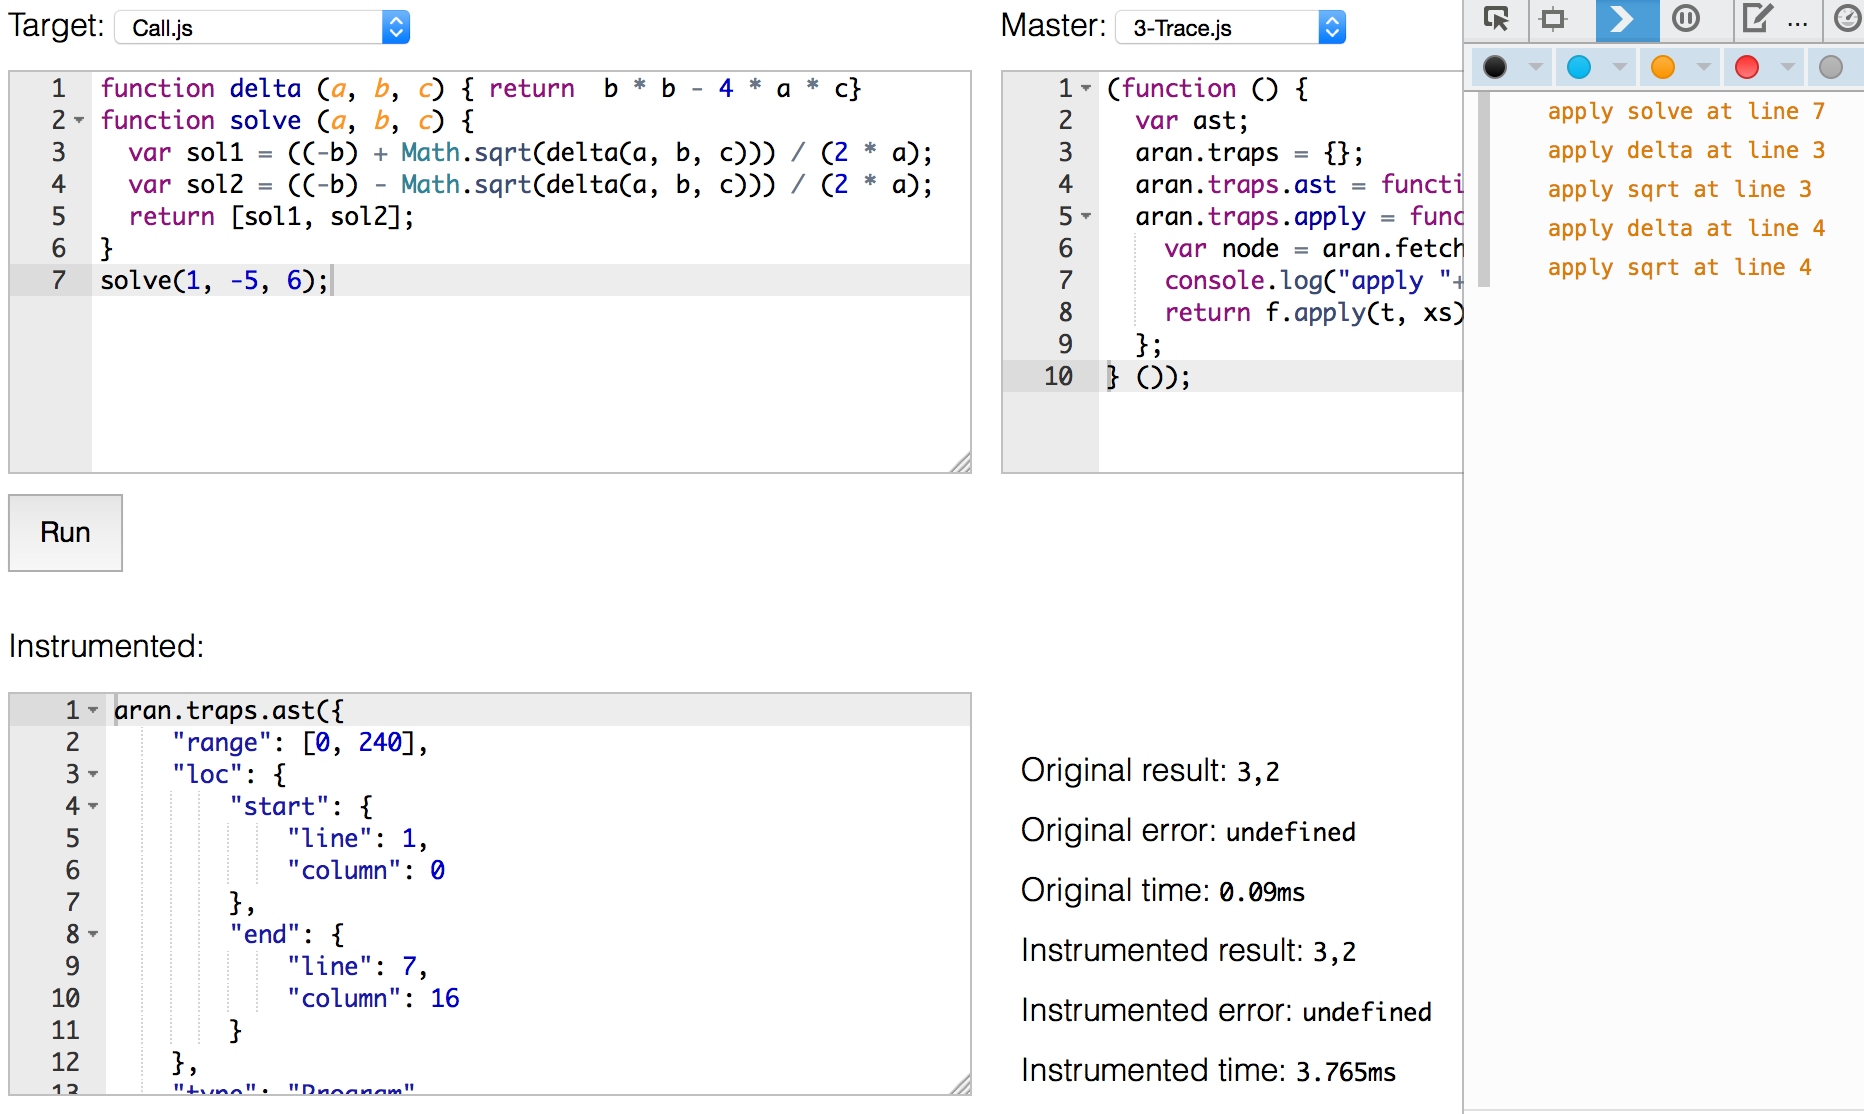
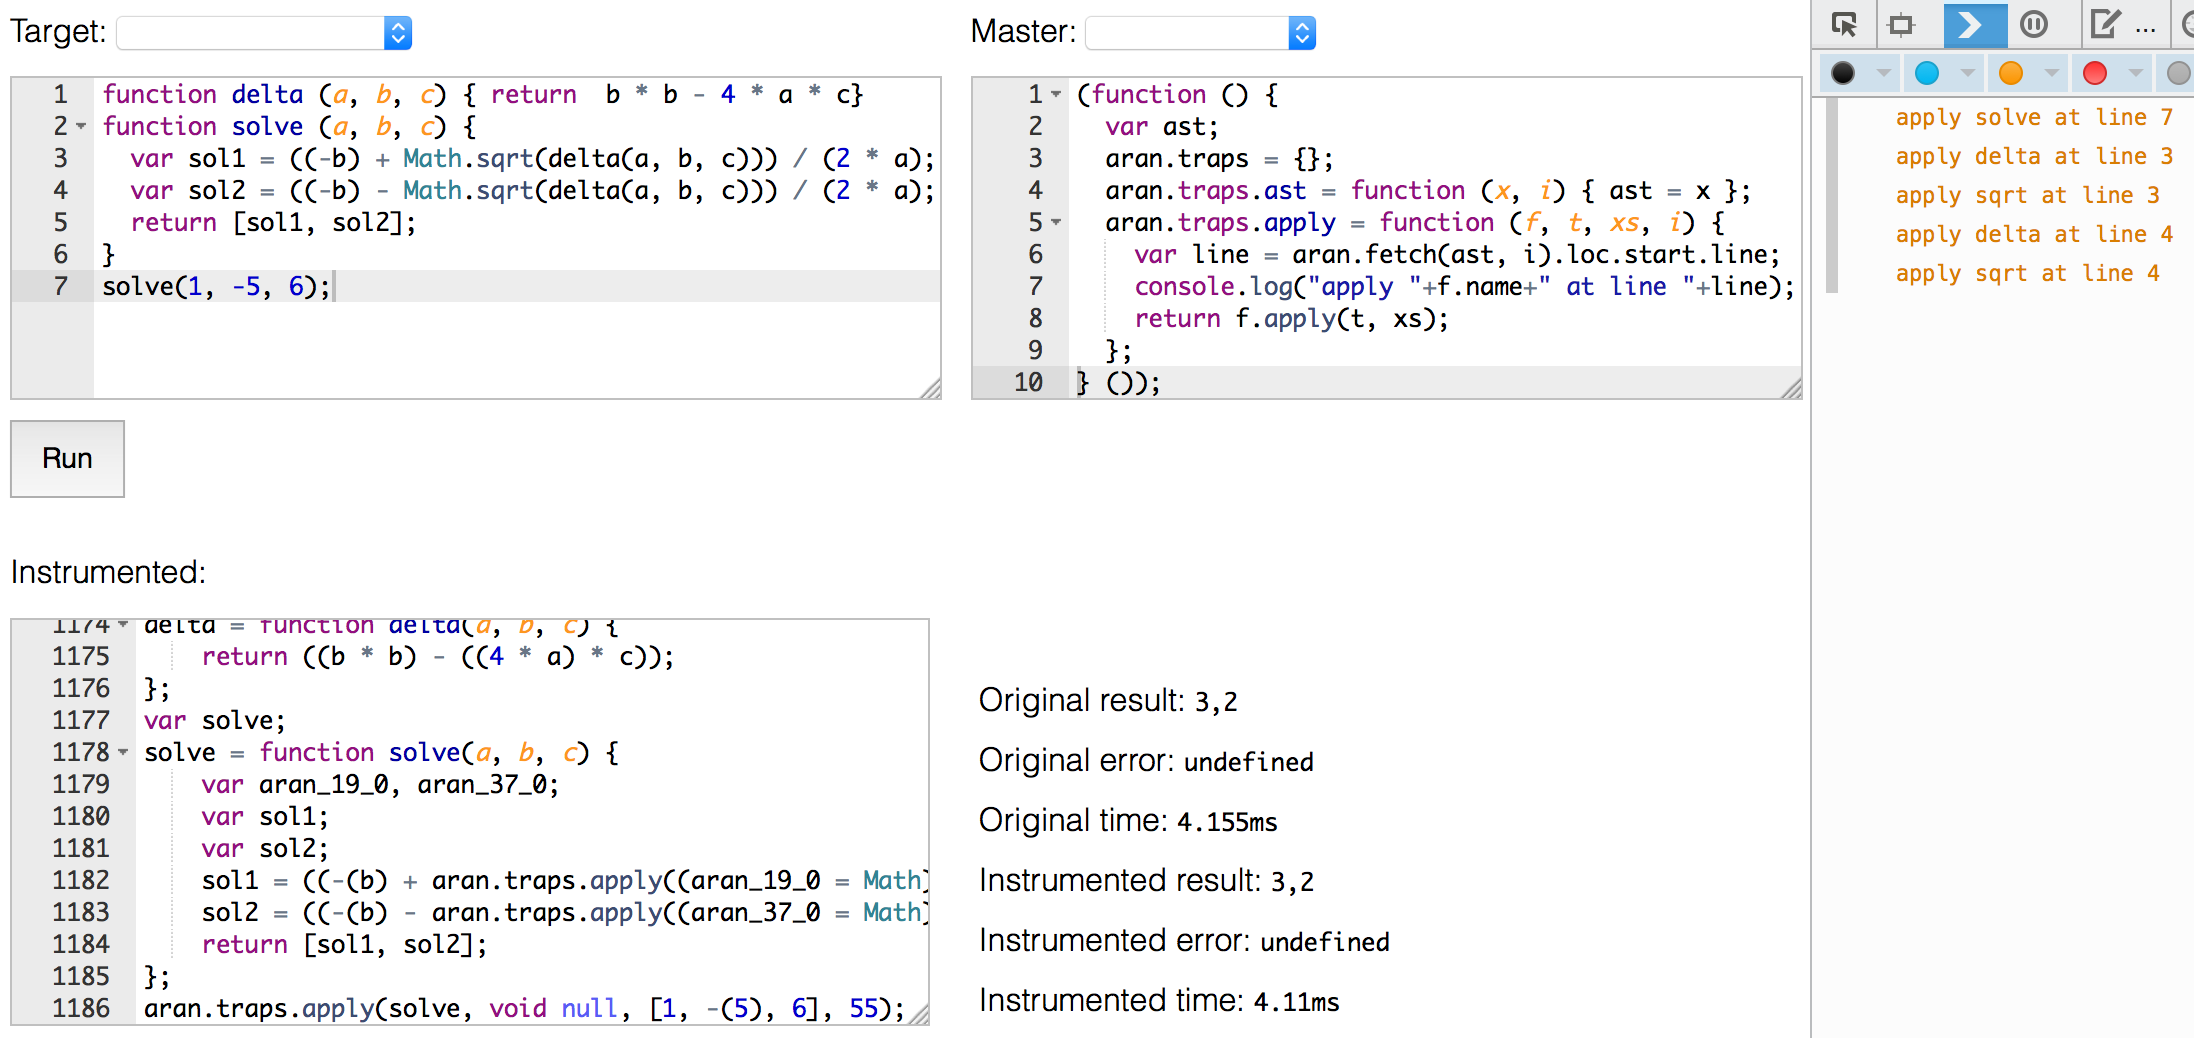
readme

diff --git a/glitterdust/demo.html b/glitterdust/demo.html
@@ -60,8 +60,9 @@ button::-moz-focus-inner {
 
 var Aran = require("../main.js");
 window.eval(Aran.setup);
-module.exports = function (master, target) {
-  window.eval(master);
+module.exports = function (analysis, target) {
+  debugger;
+  window.eval(analysis);
   return Aran.instrument({loc:true, range:true, traps:Object.keys(aran.traps)}, target);
 };
 
@@ -9503,18 +9504,15 @@ function editor (name) {
 }
 
 function select (select, object, editor) {
-  var first = null;
+  object[""] = "";
   for (var name in object) {
-    first = first || name;
     var option = document.createElement("option");
     option.textContent = name;
     option.value = name;
     select.appendChild(option);
   }
-  if (!first)
-    return select.visibility = "hidden";
   select.onchange = function () { editor.setValue(object[select.value], -1) };
-  select.value = ("Default" in object) ? "Default" : first;
+  select.value = "";
   select.onchange();
 }
 

diff --git a/glitterdust/batch-atom.html b/glitterdust/batch-atom.html
@@ -46,8 +46,9 @@ th, td {
 
 var Aran = require("../main.js");
 window.eval(Aran.setup);
-module.exports = function (master, target) {
-  window.eval(master);
+module.exports = function (analysis, target) {
+  debugger;
+  window.eval(analysis);
   return Aran.instrument({loc:true, range:true, traps:Object.keys(aran.traps)}, target);
 };
 

diff --git a/glitterdust/main.js b/glitterdust/main.js
@@ -1,7 +1,8 @@
 
 var Aran = require("../main.js");
 window.eval(Aran.setup);
-module.exports = function (master, analysis) {
+module.exports = function (analysis, target) {
+  debugger;
   window.eval(analysis);
   return Aran.instrument({loc:true, range:true, traps:Object.keys(aran.traps)}, target);
 };

diff --git a/make.js b/make.js
@@ -1,5 +1,4 @@
 
-
 var Fs = require("fs");
 var Glitterdust = require("glitterdust");
 

diff --git a/README.md b/README.md
@@ -28,8 +28,8 @@ Below we demonstrate how to analyze a monolithic JavaScript program using Aran.
     aran.traps = {};
     aran.traps.ast = function (x, i) { ast = x };
     aran.traps.apply = function (f, t, xs, i) {
-      var node = aran.fetch(ast, i);
-      console.log("apply "+f.name+" at line "+node.loc.start.line);
+      var line = aran.fetch(ast, i).loc.start.line;
+      console.log("apply "+f.name+" at line "+line);
       return f.apply(t, xs);
     };
   } ());
